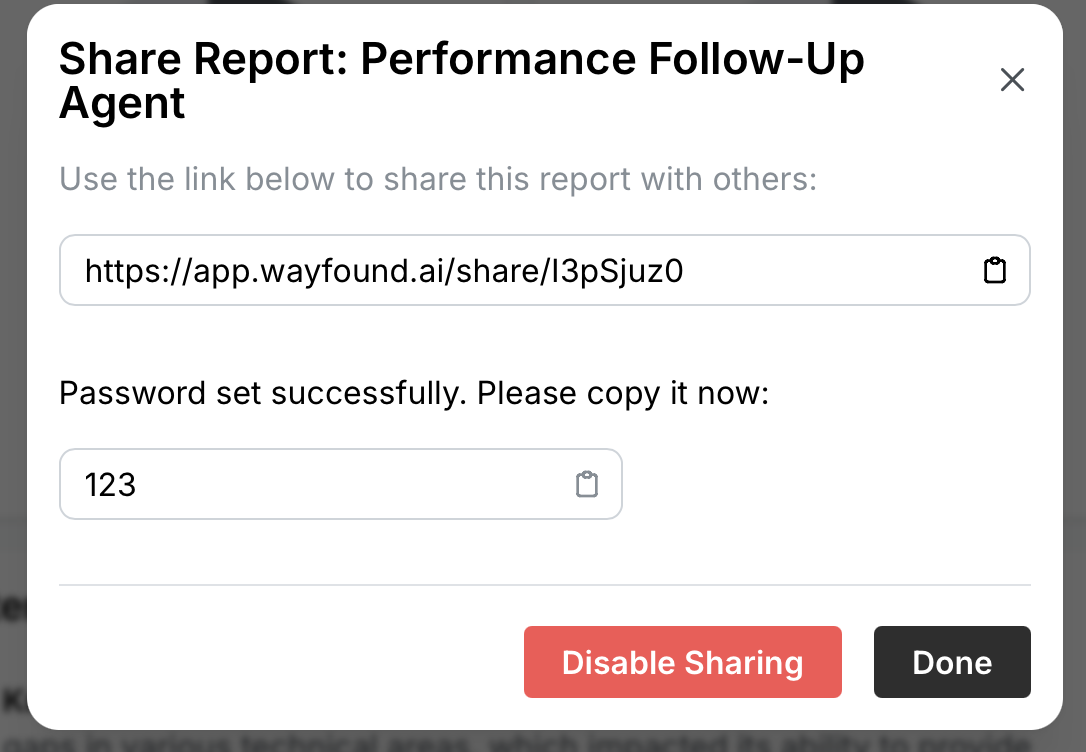
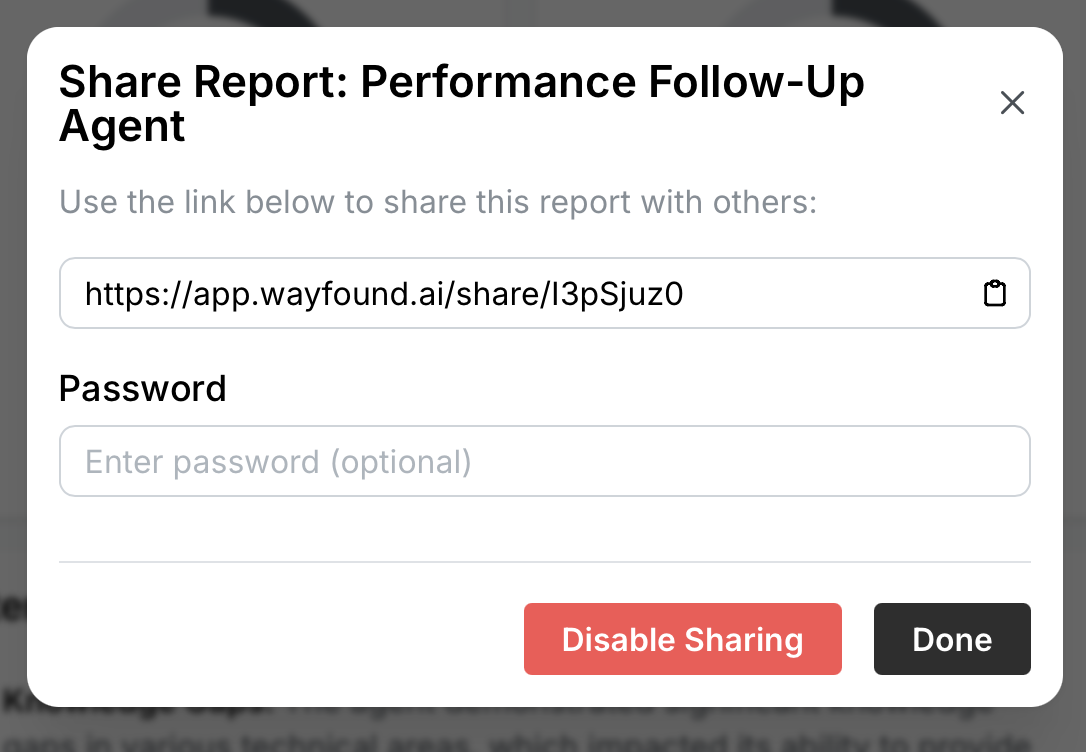
GITBOOK-94: No subject

diff --git a/settings/user-management.md b/settings/user-management.md
@@ -2,6 +2,8 @@
 
 Those with admin level permissions can access the Users page in the settings menu. This page displays a table of all users and their statuses. The page also allows you to manage users and their roles in your organization.
 
+<figure><img src="../.gitbook/assets/image.png" alt=""><figcaption></figcaption></figure>
+
 ### Roles
 
 There are currently two roles on the platform:
@@ -12,8 +14,12 @@ There are currently two roles on the platform:
 
 ### Adding Users
 
-You can invite new users by clicking **+ Invite User** at the top-right corner of the page. Enter the new user's email address in the pop-up window to send them an invitation to join the platform. Check the **Admin** box to give them the admin role. When left unchecked, the user will join the organization as a "user."
+You can invite new users by clicking <img src="../.gitbook/assets/image (1).png" alt="" data-size="line"> at the top-right corner of the page. Enter the new user's email address in the pop-up window to send them an invitation to join the platform. Check the **Admin** box to give them the admin role. When left unchecked, the user will join the organization as a "user."
 
 ### Changing a user's status
 
-To change a user's status on the platform, an admin can delete the user and add them again using the same email address. If the user's new role should be admin, make sure to check the **Admin** box.
+To change a user's status on the platform, an admin can click the <img src="../.gitbook/assets/image (2).png" alt="" data-size="line"> edit user button on the right-hand side of the table. This opens the Edit User menu:
+
+<figure><img src="../.gitbook/assets/image (3).png" alt=""><figcaption></figcaption></figure>
+
+Here, you can check or un-check Admin to switch the user's status. You can also toggle whether the user receives real-time and daily agent alerts for agents connected by that user.

diff --git a/manager/report-sharing.md b/manager/report-sharing.md
@@ -32,15 +32,15 @@ Once the feature is enabled, the platform displays share <img src="../.gitbook/a
 
 Clicking the button opens a pop-up for generating a share link:
 
-<figure><img src="../.gitbook/assets/image.png" alt="" width="563"><figcaption></figcaption></figure>
+<figure><img src="../.gitbook/assets/image (4).png" alt="" width="563"><figcaption></figcaption></figure>
 
 Wayfound allows you to protect the manager report with an optional password. To create a password, enter it in the **Password** field and click **Set Password**:
 
-<figure><img src="../.gitbook/assets/image (4).png" alt="" width="563"><figcaption></figcaption></figure>
+<figure><img src="../.gitbook/assets/image (4) (1).png" alt="" width="563"><figcaption></figcaption></figure>
 
 Once a share link is generated, you can disable sharing at any time by revisiting the Share Report window. Here, you can also remove the report's optional password if you created one:
 
-<figure><img src="../.gitbook/assets/image (3).png" alt="" width="563"><figcaption></figcaption></figure>
+<figure><img src="../.gitbook/assets/image (3) (1).png" alt="" width="563"><figcaption></figcaption></figure>
 
 ## Who can access shared reports?
 
